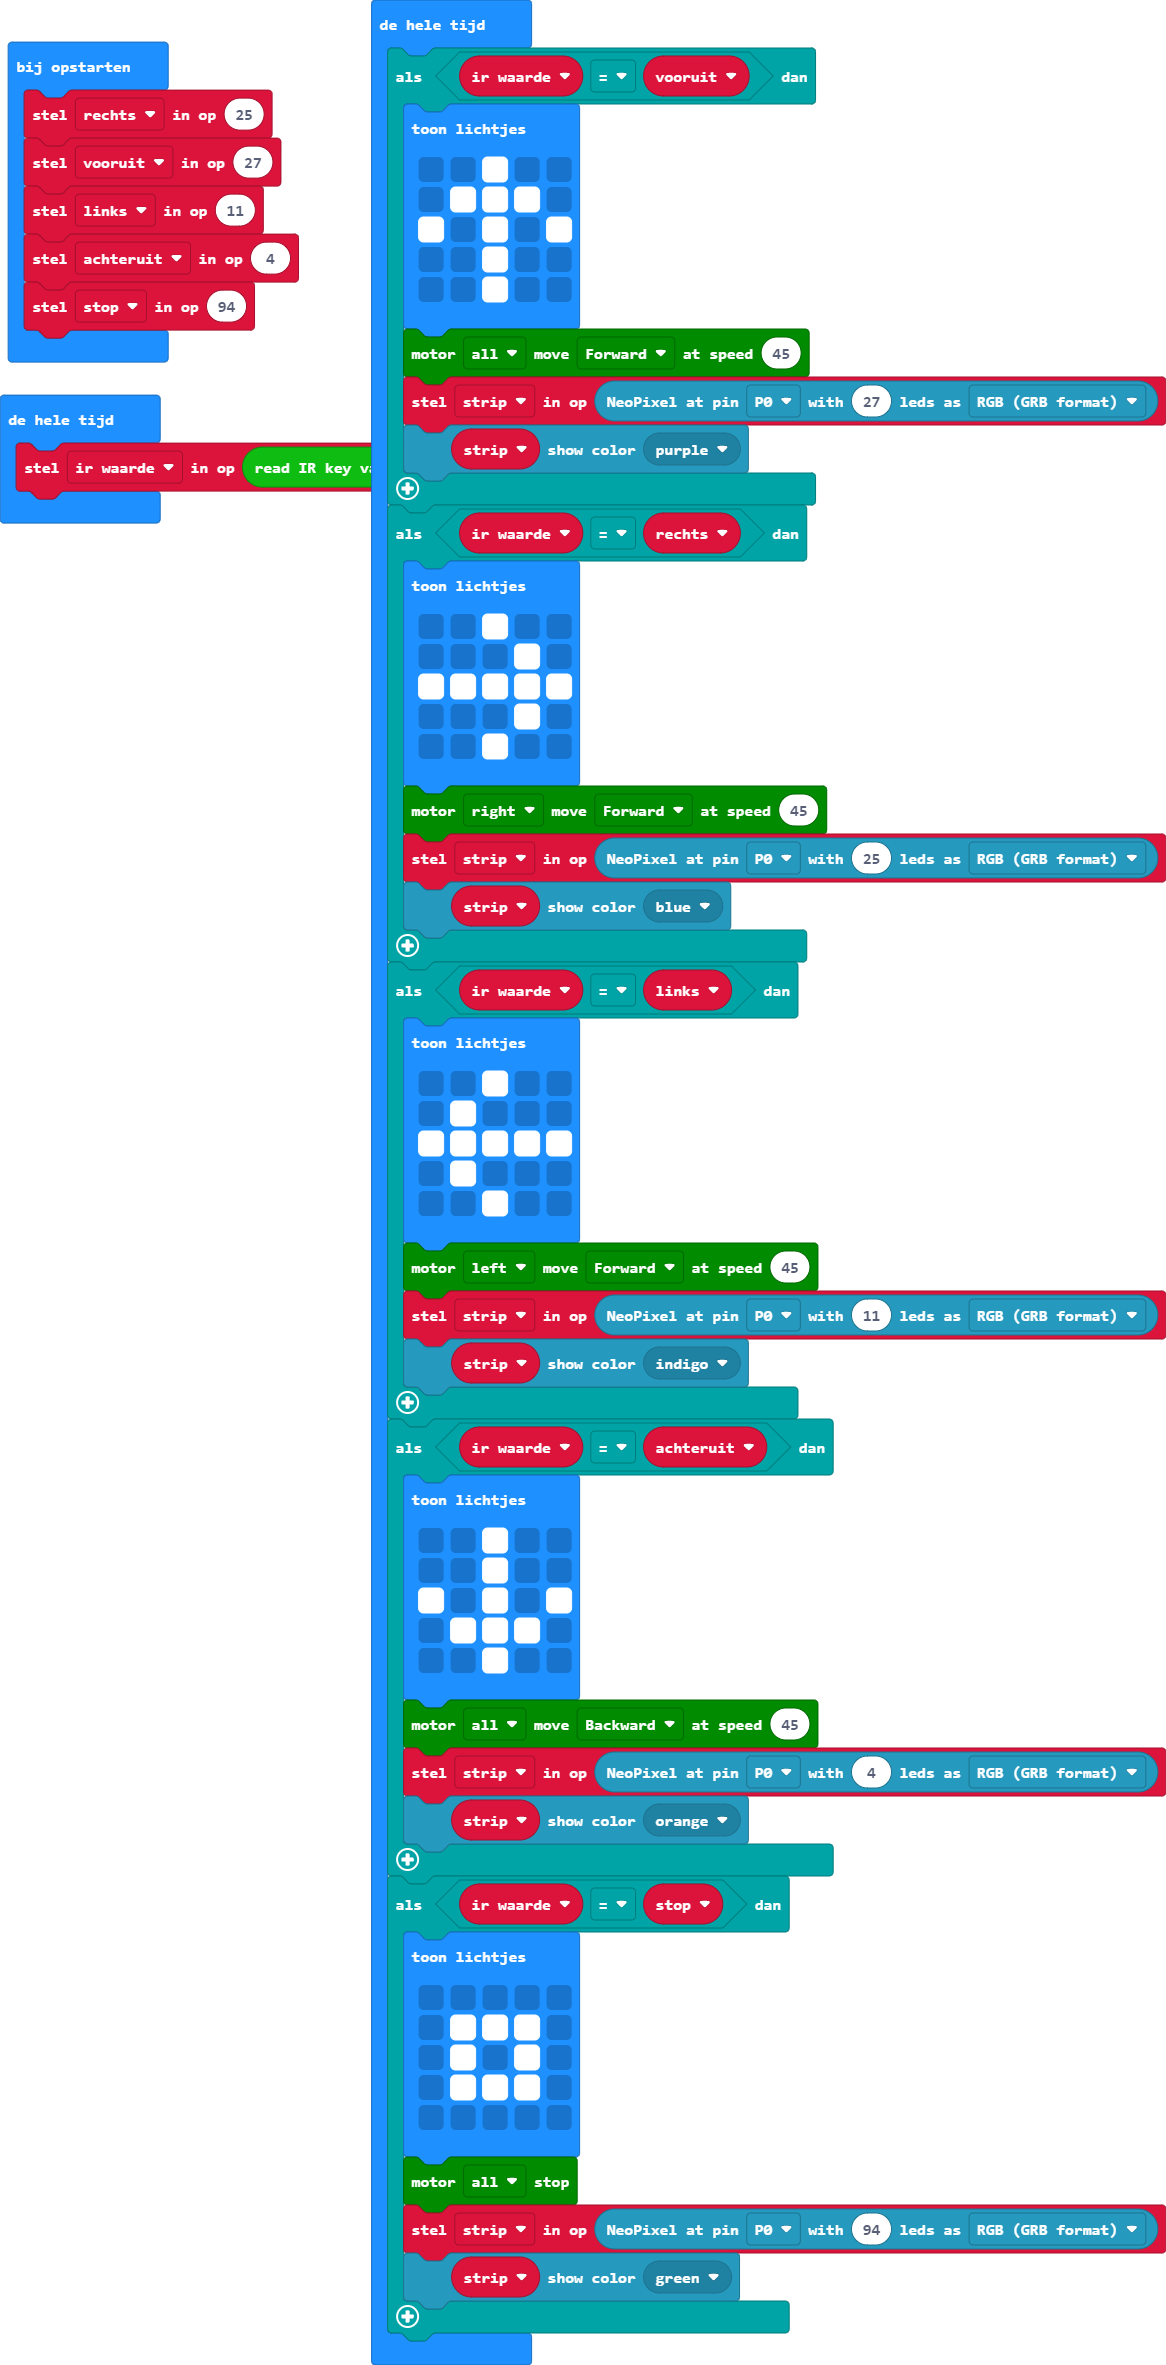
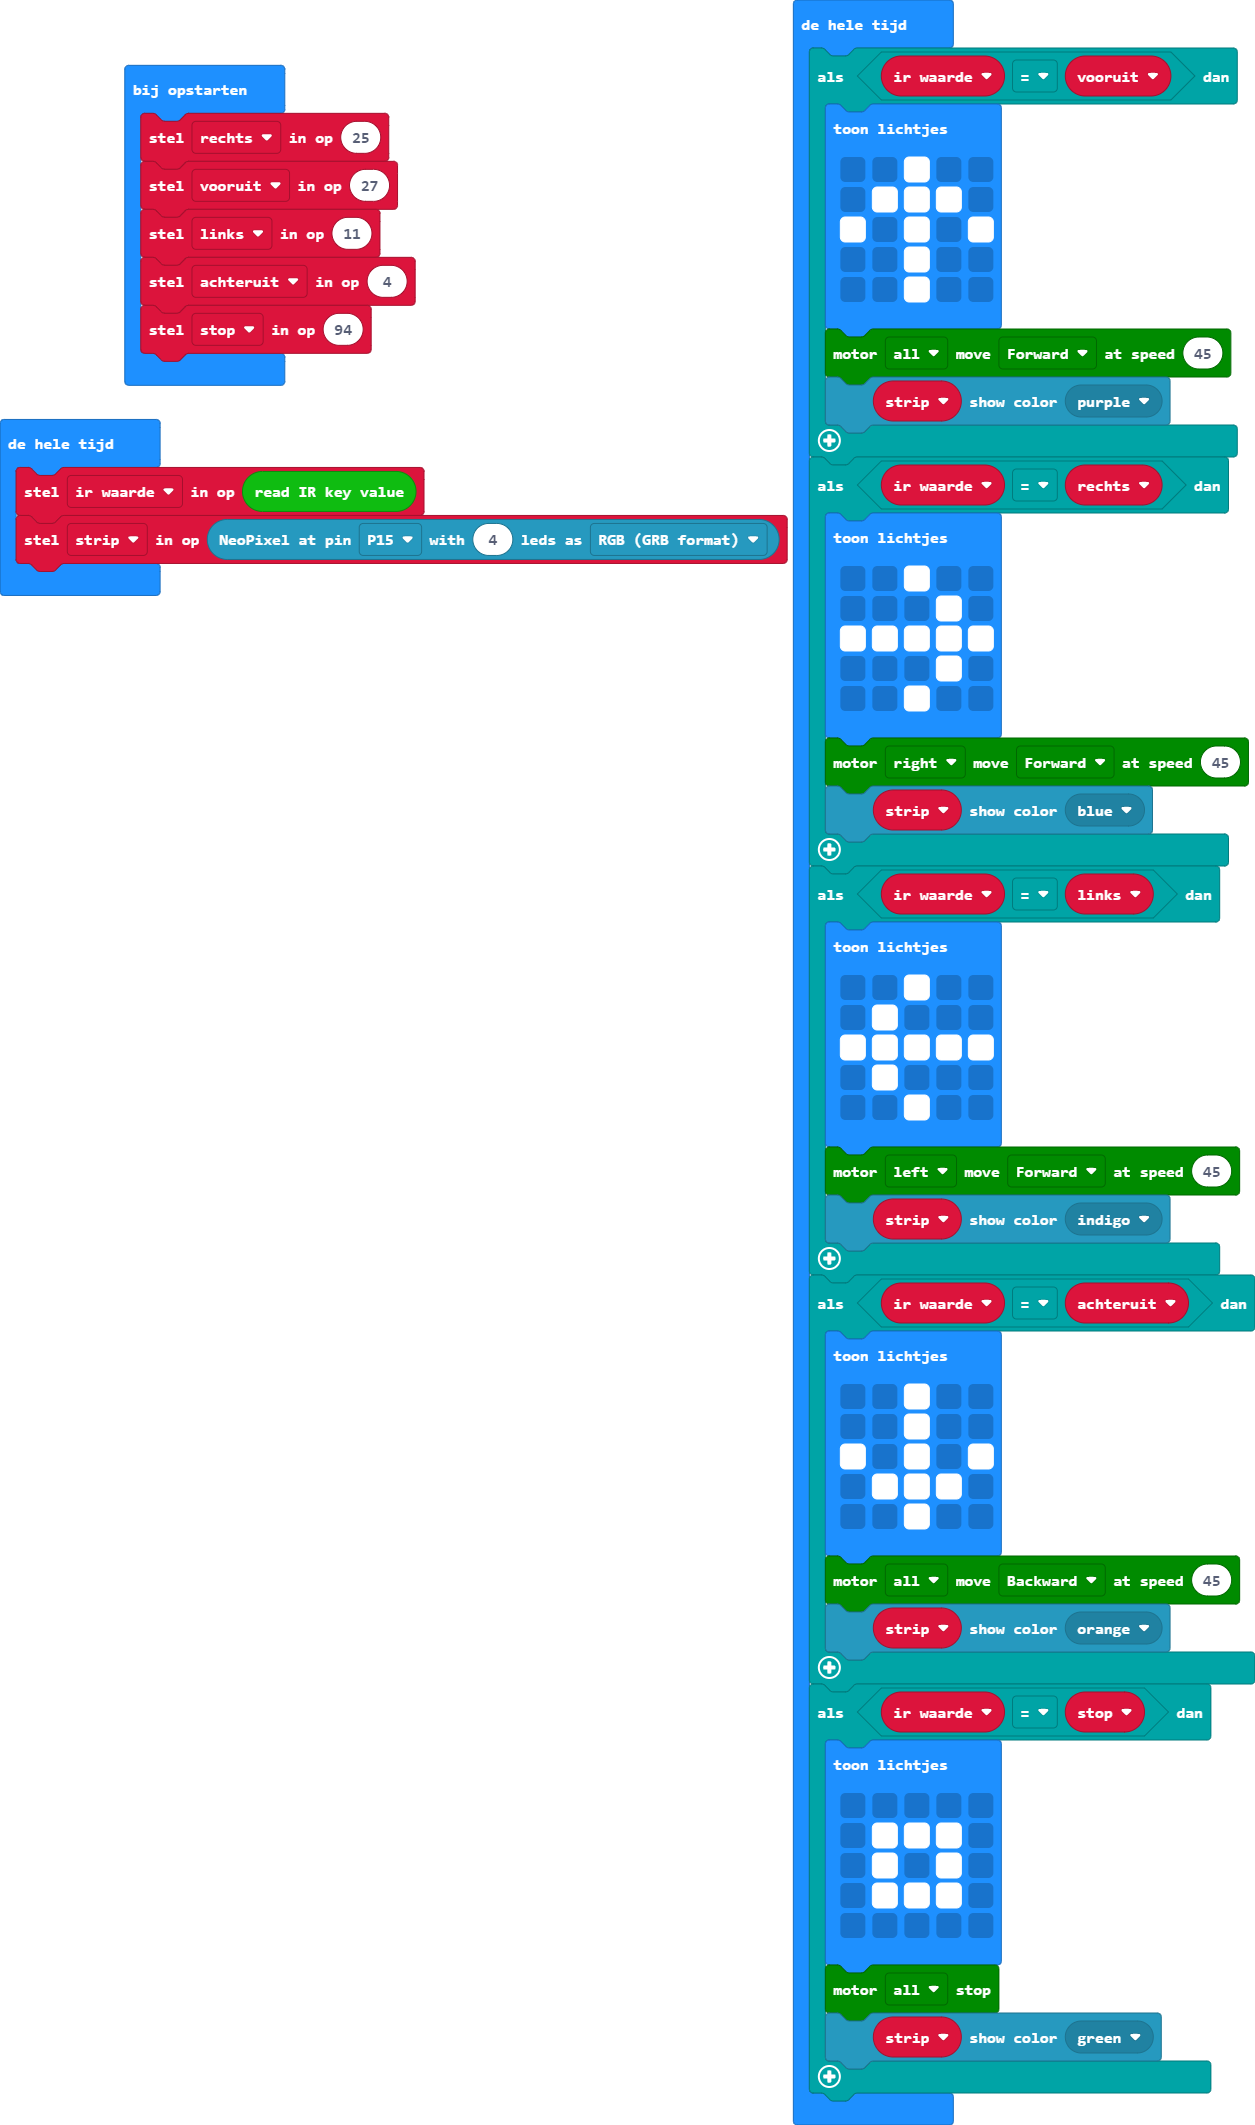
main.blocks, main.ts bijwerken

diff --git a/main.ts b/main.ts
@@ -15,7 +15,6 @@ basic.forever(function () {
             . . # . .
             `)
         maqueen.motorRun(maqueen.Motors.All, maqueen.Dir.CW, 45)
-        strip = neopixel.create(DigitalPin.P0, 27, NeoPixelMode.RGB)
         strip.showColor(neopixel.colors(NeoPixelColors.Purple))
     }
     if (ir_waarde == rechts) {
@@ -27,7 +26,6 @@ basic.forever(function () {
             . . # . .
             `)
         maqueen.motorRun(maqueen.Motors.M2, maqueen.Dir.CW, 45)
-        strip = neopixel.create(DigitalPin.P0, 25, NeoPixelMode.RGB)
         strip.showColor(neopixel.colors(NeoPixelColors.Blue))
     }
     if (ir_waarde == links) {
@@ -39,7 +37,6 @@ basic.forever(function () {
             . . # . .
             `)
         maqueen.motorRun(maqueen.Motors.M1, maqueen.Dir.CW, 45)
-        strip = neopixel.create(DigitalPin.P0, 11, NeoPixelMode.RGB)
         strip.showColor(neopixel.colors(NeoPixelColors.Indigo))
     }
     if (ir_waarde == achteruit) {
@@ -51,7 +48,6 @@ basic.forever(function () {
             . . # . .
             `)
         maqueen.motorRun(maqueen.Motors.All, maqueen.Dir.CCW, 45)
-        strip = neopixel.create(DigitalPin.P0, 4, NeoPixelMode.RGB)
         strip.showColor(neopixel.colors(NeoPixelColors.Orange))
     }
     if (ir_waarde == stop) {
@@ -63,10 +59,10 @@ basic.forever(function () {
             . . . . .
             `)
         maqueen.motorStop(maqueen.Motors.All)
-        strip = neopixel.create(DigitalPin.P0, 94, NeoPixelMode.RGB)
         strip.showColor(neopixel.colors(NeoPixelColors.Green))
     }
 })
 basic.forever(function () {
     ir_waarde = IR.IR_read()
+    strip = neopixel.create(DigitalPin.P15, 4, NeoPixelMode.RGB)
 })
